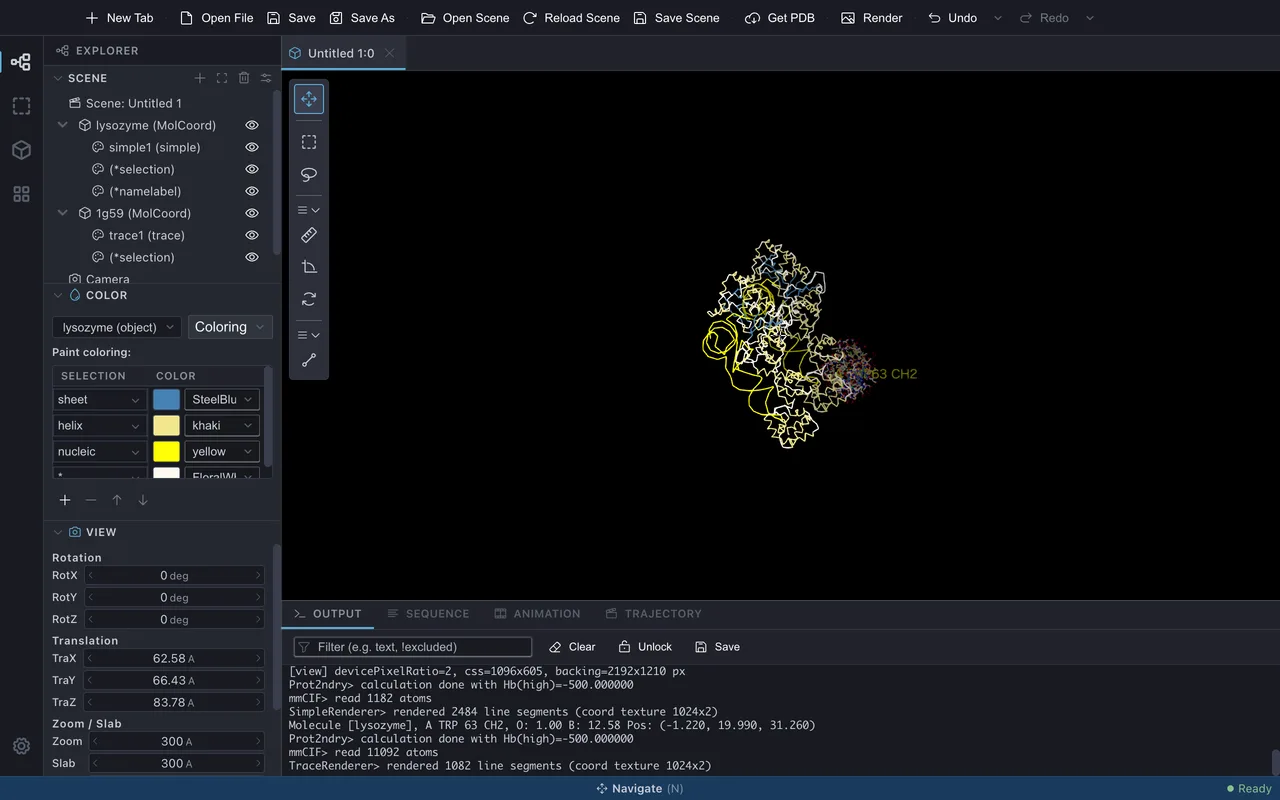
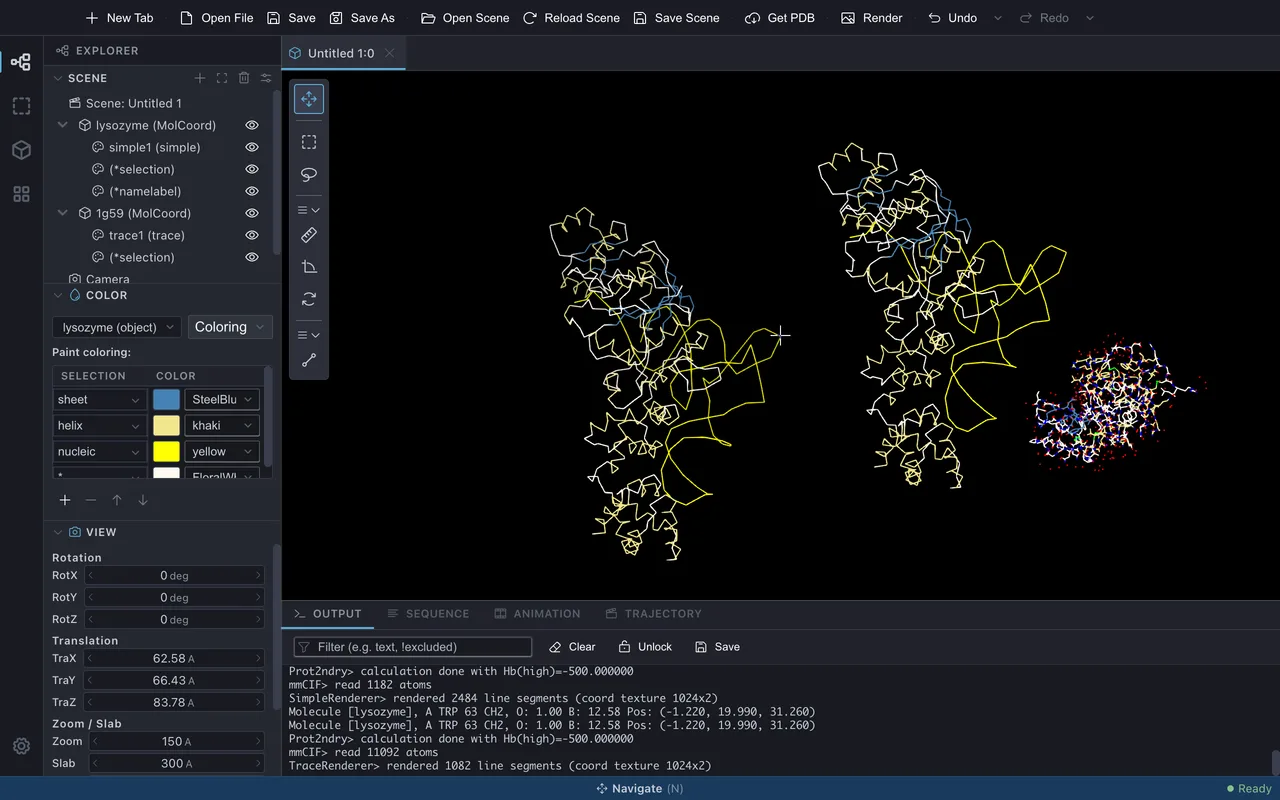
Separate the three structures instead of stacking them in depth
At Zoom 300 the molecules sat in a clump in the middle of the frame, and
head-on they overlap along the view axis, so the figure did not show what
the section describes. Zoom in to 150 so they fill the frame and turn RotY
by 90 degrees so the depth separation becomes lateral: the two 1G59
complexes stand side by side with lysozyme beside them, matching the
CueMol2 tutorial's composition. Slab stays at 300, which is the point of
the step.

Clicking an atom in section 2 creates a (*namelabel) renderer that stays
in the tree after the label is switched off, so section 5 accounts for the
extra row and the spec asserts it.

diff --git a/docs-verify/specs/basic/loading.spec.ts b/docs-verify/specs/basic/loading.spec.ts
@@ -101,6 +101,11 @@ test.describe.serial('構造の読み込みと表示', { tag: '@net' }, () => {
             rect: { x: 0, y: bar.y - 60, width: 760, height: bar.height + 60 },
         });
 
+        // 「もう一度クリックすると消えます」(ラベルは消えるが、ラベル用の
+        //   (*namelabel) Renderer の行はツリーに残る)
+        await harness.window.mouse.click(hit.x, hit.y);
+        await expect(harness.window.getByText('(*namelabel)')).toBeVisible();
+
         // 「1. 分子ビュー上を左ドラッグします」「2. ホイールを回します」
         await rotateView(harness.window);
         await zoomView(harness.window);
@@ -136,11 +141,13 @@ test.describe.serial('構造の読み込みと表示', { tag: '@net' }, () => {
         await expectRow(harness.window, SECOND_OBJ);
         await expectRow(harness.window, 'trace1');
 
-        // 「1. Zoom に 300 と入力します」「2. Slab に 300 と入力します」
+        // 「1. Slab に 300 と入力します」「2. Zoom に 150 と入力します」
         // Widening Zoom alone is not enough: the default 50 A slab clips
         // lysozyme, which sits about 100 A away from 1g59.
-        await setViewValue(harness.window, 'Zoom', 300);
         await setViewValue(harness.window, 'Slab', 300);
+        await setViewValue(harness.window, 'Zoom', 150);
+        // 「3. RotY に 90 と入力します」— they overlap in depth head-on.
+        await enterViewValue(harness.window, 'RotY', 90);
         await docShot(harness.window, `${SHOT}/3-two-objects`);
     });
 
